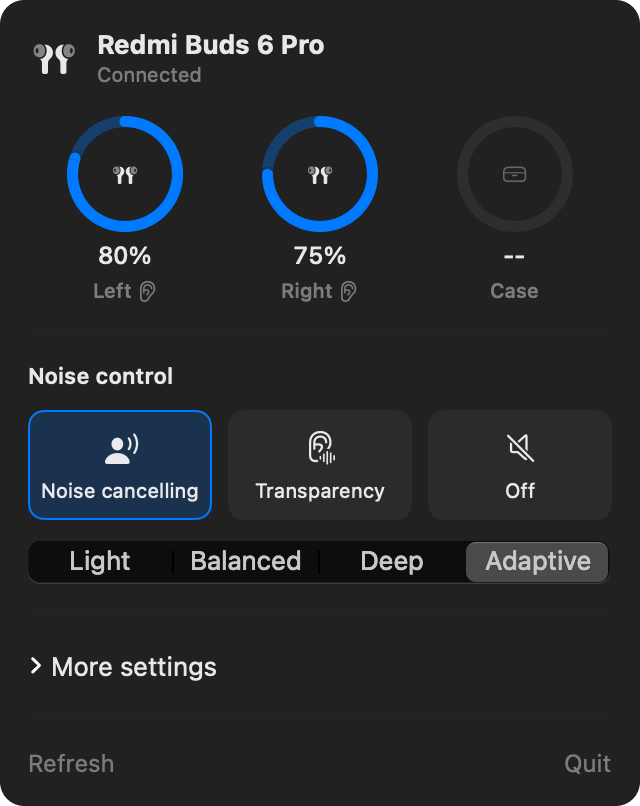
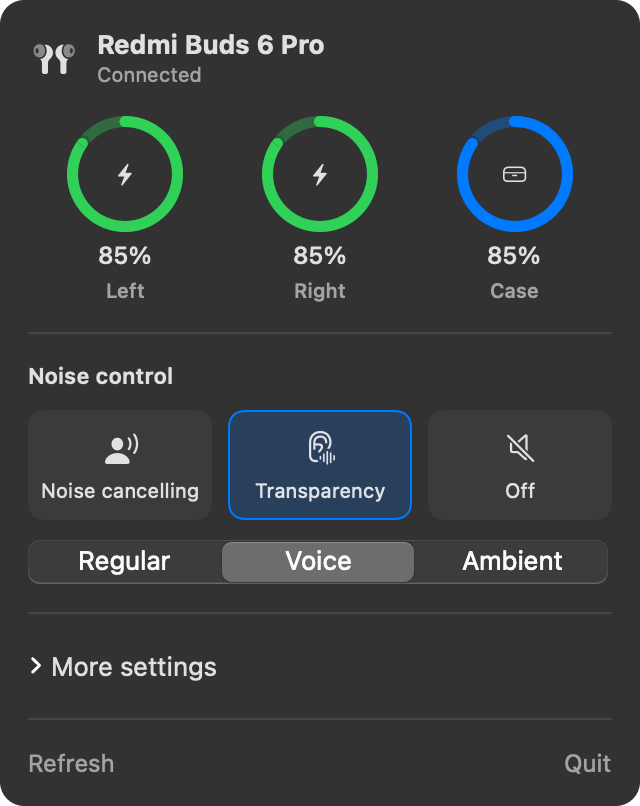
Remember the last case battery reading
The 5 Pro and 6 Pro only report the case battery while the earbuds are in
the case; once both are in the ear it comes back as unavailable, so the
menu lost the value as soon as the earbuds were taken out.

The controller now keeps the last case reading per pair of earbuds
(keyed by Bluetooth address, saved in UserDefaults so it survives
restarts) and any new reading replaces it. While no fresh value arrives,
the menu shows the remembered level faded, with its age below it
("5 min ago", localized by the system), and the CLI prints it as
"last seen". Live readings look exactly as before.

Also refreshes the README screenshots, which now show the case battery
and the earbuds charging.

diff --git a/Sources/RedmiBuds/MenuContent.swift b/Sources/RedmiBuds/MenuContent.swift
@@ -13,7 +13,7 @@ struct MenuContent: View {
         VStack(alignment: .leading, spacing: 14) {
             header
             if controller.connection == .ready {
-                BatteryRow(state: controller.state)
+                BatteryRow(state: controller.state, lastCase: controller.lastCaseBattery)
                 Divider()
                 noiseControl
                 Divider()
@@ -170,12 +170,26 @@ struct MenuContent: View {
 
 struct BatteryRow: View {
     let state: BudsState
+    let lastCase: CaseBatteryReading?
 
     var body: some View {
-        HStack(spacing: 0) {
+        HStack(alignment: .top, spacing: 0) {
             BatteryGauge(title: "battery.left", symbol: "earbuds", battery: state.left, inEar: state.leftInEar)
             BatteryGauge(title: "battery.right", symbol: "earbuds", battery: state.right, inEar: state.rightInEar)
-            BatteryGauge(title: "battery.case", symbol: "earbuds.case", battery: state.caseBattery, inEar: nil)
+            caseGauge
+        }
+    }
+
+    /// The case is usually only reported while an earbud is in it, so fall back to the last
+    /// reading and say how old it is.
+    @ViewBuilder private var caseGauge: some View {
+        if let live = state.caseBattery {
+            BatteryGauge(title: "battery.case", symbol: "earbuds.case", battery: live, inEar: nil)
+        } else if let lastCase {
+            BatteryGauge(title: "battery.case", symbol: "earbuds.case",
+                         battery: Battery(level: lastCase.level, charging: false), inEar: nil, lastSeen: lastCase.date)
+        } else {
+            BatteryGauge(title: "battery.case", symbol: "earbuds.case", battery: nil, inEar: nil)
         }
     }
 }
@@ -185,6 +199,8 @@ struct BatteryGauge: View {
     let symbol: String
     let battery: Battery?
     let inEar: Bool?
+    /// Set when `battery` is a remembered value rather than a live one.
+    var lastSeen: Date? = nil
 
     var body: some View {
         VStack(spacing: 4) {
@@ -196,7 +212,7 @@ struct BatteryGauge: View {
             }
             .gaugeStyle(.accessoryCircularCapacity)
             .tint(tint)
-            .opacity(battery == nil ? 0.35 : 1)
+            .opacity(battery == nil ? 0.35 : lastSeen == nil ? 1 : 0.55)
 
             Text(battery.map { "\($0.level)%" } ?? "--").font(.callout.monospacedDigit().weight(.medium))
             HStack(spacing: 3) {
@@ -207,12 +223,25 @@ struct BatteryGauge: View {
             }
             .font(.caption2)
             .foregroundStyle(.secondary)
+
+            if let lastSeen {
+                // "5 min ago", localized by the system; refreshed every minute.
+                TimelineView(.everyMinute) { _ in
+                    Text(lastSeen, format: .relative(presentation: .named, unitsStyle: .abbreviated))
+                }
+                .font(.caption2)
+                .foregroundStyle(.tertiary)
+                .lineLimit(1)
+                .minimumScaleFactor(0.8)
+            }
         }
         .frame(maxWidth: .infinity)
+        .accessibilityElement(children: .combine)
     }
 
     private var tint: Color {
         guard let battery else { return .gray }
+        if lastSeen != nil { return .secondary }
         if battery.charging { return .green }
         return battery.level <= 20 ? .red : .accentColor
     }

diff --git a/Sources/BudsKit/BudsController.swift b/Sources/BudsKit/BudsController.swift
@@ -39,6 +39,9 @@ public final class BudsController {
     public private(set) var connection: Connection = .searching
     public private(set) var state = BudsState()
     public private(set) var deviceName: String?
+    /// Last case battery seen for the current earbuds. `state.caseBattery` is only set while
+    /// the earbuds report it (usually with an earbud in the case); this keeps the last value.
+    public private(set) var lastCaseBattery: CaseBatteryReading?
     public private(set) var log: [String] = []
 
     /// Called for every log line (used by the CLI to echo to the terminal).
@@ -55,6 +58,8 @@ public final class BudsController {
     @ObservationIgnored private var device: IOBluetoothDevice?
     @ObservationIgnored private var channel: IOBluetoothRFCOMMChannel?
     @ObservationIgnored private var session = BudsSession()
+    @ObservationIgnored private let caseStore: CaseBatteryStore
+    @ObservationIgnored private var caseStoreKey: String?
     @ObservationIgnored private var parser = FrameParser()
     @ObservationIgnored private var bridge: DelegateBridge!
     @ObservationIgnored private var connectNotification: IOBluetoothUserNotification?
@@ -65,7 +70,8 @@ public final class BudsController {
 
     private let logger = Logger(subsystem: "dev.local.RedmiBuds", category: "bluetooth")
 
-    public init() {
+    public init(caseStore: CaseBatteryStore = CaseBatteryStore()) {
+        self.caseStore = caseStore
         bridge = DelegateBridge(owner: self)
     }
 
@@ -90,6 +96,10 @@ public final class BudsController {
         }
         self.device = device
         deviceName = device.name
+        if caseStoreKey != device.addressString {
+            caseStoreKey = device.addressString
+            lastCaseBattery = caseStoreKey.flatMap(caseStore.load(for:))
+        }
         disconnectNotification?.unregister()
         disconnectNotification = device.register(
             forDisconnectNotification: bridge, selector: #selector(DelegateBridge.deviceDisconnected(_:device:)))
@@ -276,8 +286,17 @@ public final class BudsController {
     private func syncState() {
         if state != session.state {
             state = session.state
+            rememberCaseBattery()
             onChange?()
         }
+    }
+
+    /// Any fresh case reading replaces the stored one.
+    private func rememberCaseBattery() {
+        guard let battery = state.caseBattery, let key = caseStoreKey else { return }
+        let reading = CaseBatteryReading(level: battery.level, date: Date())
+        lastCaseBattery = reading
+        caseStore.save(reading, for: key)
     }
 
     private func update(_ new: Connection) {

diff --git a/Tests/BudsKitTests/CaseBatteryStoreTests.swift b/Tests/BudsKitTests/CaseBatteryStoreTests.swift
@@ -1,0 +1,43 @@
+// SPDX-License-Identifier: AGPL-3.0-or-later
+// Copyright (C) 2026 Henrique Carvalho
+
+@testable import BudsKit
+import Foundation
+import Testing
+
+@Suite struct CaseBatteryStoreTests {
+    /// A throwaway defaults domain per test, so nothing touches the real app settings.
+    private func makeStore() -> (CaseBatteryStore, UserDefaults, String) {
+        let suite = "CaseBatteryStoreTests.\(UUID().uuidString)"
+        let defaults = UserDefaults(suiteName: suite)!
+        return (CaseBatteryStore(defaults: defaults), defaults, suite)
+    }
+
+    @Test func savesAndLoadsPerDevice() {
+        let (store, defaults, suite) = makeStore()
+        defer { defaults.removePersistentDomain(forName: suite) }
+
+        let date = Date(timeIntervalSince1970: 1_800_000_000)
+        store.save(CaseBatteryReading(level: 85, date: date), for: "00-bb-43-8a-89-45")
+        #expect(store.load(for: "00-bb-43-8a-89-45") == CaseBatteryReading(level: 85, date: date))
+        // Another pair of earbuds has its own case.
+        #expect(store.load(for: "48-73-cb-5b-35-cb") == nil)
+    }
+
+    @Test func newReadingReplacesTheOldOne() {
+        let (store, defaults, suite) = makeStore()
+        defer { defaults.removePersistentDomain(forName: suite) }
+
+        store.save(CaseBatteryReading(level: 85, date: Date(timeIntervalSince1970: 1)), for: "a")
+        store.save(CaseBatteryReading(level: 60, date: Date(timeIntervalSince1970: 2)), for: "a")
+        #expect(store.load(for: "a")?.level == 60)
+    }
+
+    @Test func survivesANewStoreInstance() {
+        let (store, defaults, suite) = makeStore()
+        defer { defaults.removePersistentDomain(forName: suite) }
+
+        store.save(CaseBatteryReading(level: 42, date: Date(timeIntervalSince1970: 3)), for: "a")
+        #expect(CaseBatteryStore(defaults: defaults).load(for: "a")?.level == 42)
+    }
+}

diff --git a/Sources/BudsKit/CaseBatteryStore.swift b/Sources/BudsKit/CaseBatteryStore.swift
@@ -1,0 +1,39 @@
+// SPDX-License-Identifier: AGPL-3.0-or-later
+// Copyright (C) 2026 Henrique Carvalho
+
+import Foundation
+
+/// The last case battery level the earbuds reported, and when.
+///
+/// Most models only report the case while an earbud sits in it: once both are in the ear the
+/// value comes back as "unavailable". Keeping the last reading lets the app still show it.
+public struct CaseBatteryReading: Codable, Equatable, Sendable {
+    public var level: Int
+    public var date: Date
+
+    public init(level: Int, date: Date) {
+        self.level = level
+        self.date = date
+    }
+}
+
+/// Persists the last case reading per pair of earbuds (keyed by Bluetooth address), so it
+/// survives restarts and one pair's case never shows up for another.
+public struct CaseBatteryStore: @unchecked Sendable {
+    private let defaults: UserDefaults
+    private static let keyPrefix = "lastCaseBattery."
+
+    public init(defaults: UserDefaults = .standard) {
+        self.defaults = defaults
+    }
+
+    public func load(for deviceID: String) -> CaseBatteryReading? {
+        guard let data = defaults.data(forKey: Self.keyPrefix + deviceID) else { return nil }
+        return try? JSONDecoder().decode(CaseBatteryReading.self, from: data)
+    }
+
+    public func save(_ reading: CaseBatteryReading, for deviceID: String) {
+        guard let data = try? JSONEncoder().encode(reading) else { return }
+        defaults.set(data, forKey: Self.keyPrefix + deviceID)
+    }
+}

diff --git a/Sources/RedmiBuds/Entry.swift b/Sources/RedmiBuds/Entry.swift
@@ -91,11 +91,17 @@ enum CLI {
             return "\(b.level)%\(b.charging ? " (charging)" : "")"
         }
         func show<T>(_ value: T?) -> String { value.map { "\($0)" } ?? "?" }
+        func caseLine(_ live: Battery?, _ last: CaseBatteryReading?) -> String {
+            if let live { return bat(live) }
+            guard let last else { return "--" }
+            let age = last.date.formatted(.relative(presentation: .named, unitsStyle: .abbreviated).locale(Locale(identifier: "en_US")))
+            return "-- (last seen \(last.level)%, \(age))"
+        }
         print("""
         device:          \(c.deviceName ?? "?")  firmware \(s.firmware ?? "?")
         left:            \(bat(s.left))  in ear: \(show(s.leftInEar))
         right:           \(bat(s.right))  in ear: \(show(s.rightInEar))
-        case:            \(bat(s.caseBattery))
+        case:            \(caseLine(s.caseBattery, c.lastCaseBattery))
         mode:            \(show(s.noiseMode))
         anc level:       \(show(s.ancLevel))  adaptive: \(show(s.adaptiveANC))
         transparency:    \(show(s.transparencyLevel))

diff --git a/README.md b/README.md
@@ -7,7 +7,7 @@ Menu bar app (SwiftUI + IOBluetooth) for the Redmi Buds 6 Pro: battery (left, ri
 <p align="center">
   <picture>
     <source media="(prefers-color-scheme: dark)" srcset="docs/screenshots/menu-dark.png">
-    <img src="docs/screenshots/menu-light.png" width="320" alt="Menu with battery for each earbud and the noise control modes">
+    <img src="docs/screenshots/menu-light.png" width="320" alt="Menu with the battery of each earbud (charging) and of the case, and the noise control modes">
   </picture>
   &nbsp;&nbsp;
   <picture>
@@ -112,7 +112,7 @@ On all tested models (see [Tested with](#tested-with)), authentication, battery,
 The adaptive style is chosen from the device name (`AdaptiveANCStyle`): the 3 Pro and 4 Pro use the strength value (Gadgetbridge models the 3 Pro the same way), every other model uses the separate setting. Unit tests replay frames captured from each tested model and pin the bytes each style sends.
 
 - The earbuds accept only **one** control connection. If a phone is connected with the Xiaomi Earbuds app open, the channel is rejected (`bluetoothd` error 913).
-- The case battery depends on the model: the 4 Pro reports it at any time, the 5 Pro and 6 Pro returned "unavailable" (`0xFF`) with both earbuds in the ear, probably reporting it only while an earbud is in the case (not verified).
+- The case battery depends on the model: the 4 Pro reports it at any time, while the 5 Pro and 6 Pro report it only while the earbuds are in the case (`0xFF` once both are in the ear). The app remembers the last case reading per pair of earbuds (saved across restarts) and, while no fresh value arrives, shows it faded with its age ("5 min ago"); any new reading replaces it.
 - The 6 Pro sometimes reports ANC strengths outside the 5 Pro table (e.g. `0x07`, `0x0B`), probably from its 20-level scale. They are ignored for now. The 5 Pro reports only the three known levels (light, balanced, deep).
 - Not yet tested on the device: the equalizer, the toggles under "More settings" and "play sound to find".
 
